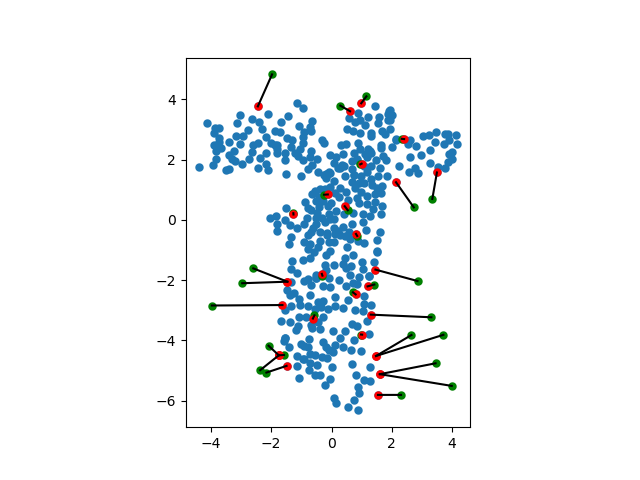
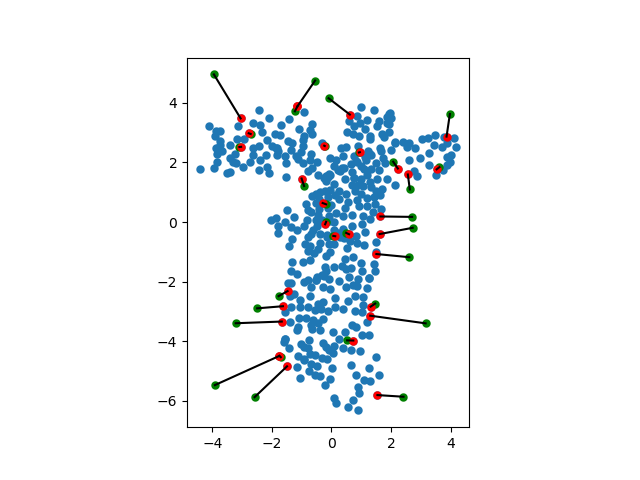
feat: Add VPTree nearest neighbor implementation
Add vantage point tree nn implementation and test it on ecobici dataset.

diff --git a/vptree.py b/vptree.py
@@ -1,0 +1,135 @@
+import math
+import numpy as np
+from typing import List
+
+def distance(point1: List[float], point2: List[float]) -> float:
+    return math.sqrt((point1[1] - point2[1])**2 + (point1[0] - point2[0])**2)
+
+# Adaptation from VP-Tree implementation, by Steve Hanov. (steve.hanov@gmail.com)
+
+# Node class
+class VpTreeNode:
+    def __init__(self, point):
+        self.vp = point
+        self.left = None
+        self.right = None
+        self.mu = 0
+
+    def __str__(self):
+        return f"(vp={self.vp}, mu={self.mu})"
+
+
+# VPTree Class
+class VpTree:
+    def __init__(self, datapoints):
+        self._datapoints = datapoints
+        self._root = self.__build(0, len(self._datapoints))
+
+    def __build(self, low_idx, up_idx):
+        # terminal case
+        if up_idx == low_idx:
+            return None
+
+        # terminal case with one node
+        if up_idx - low_idx == 1:
+            node = VpTreeNode(self._datapoints[low_idx])
+            return node
+
+        # if previous conditions are not met, then there are at least two data
+        root_i = np.random.randint(low_idx, up_idx) # choose rand index for root
+        # swap corresponding element with starting element
+        tmp = self._datapoints[root_i], self._datapoints[low_idx]
+        self._datapoints[low_idx], self._datapoints[root_i] = tmp
+
+        # compute all distances to subtree's root node
+        dists = [distance(p, self._datapoints[low_idx])
+                for p in self._datapoints[low_idx:up_idx]]
+        mid = len(dists) // 2 # distances' middle element
+        # move all elements lower to mid element to left and higher to the right
+        idx = np.argpartition(dists, mid)
+        zero = np.argwhere(idx == 0)[0][0] # track position of zero idx
+        # swap it to the leftmost position
+        idx[zero] = idx[0]
+        idx[0] = 0
+
+        # partially sort data based on their distance to low_idx element
+        tmp = [self._datapoints[low_idx + i] for i in idx]
+        self._datapoints[low_idx:up_idx] = tmp
+        
+        # create subtree root node
+        node = VpTreeNode(self._datapoints[low_idx])
+        node.mu = distance(self._datapoints[low_idx],
+                           self._datapoints[low_idx + mid])
+
+        # recursive call for left and right child nodes
+        node.left = self.__build(low_idx + 1, low_idx + mid + 1)
+        node.right = self.__build(low_idx + mid + 1, up_idx)
+
+        return node
+
+    def __nearest_neighbor(
+              self, 
+              query, 
+              node, 
+              tau: float = math.inf, 
+              nn: VpTreeNode = None) -> VpTreeNode:
+        """"""
+        if node != None:
+            d = distance(query, node.vp)
+            if nn == None: # special case at initialization
+                tau = d
+                nn = node
+                # explore inner region
+                nl, tl = self.__nearest_neighbor(query, node.left, 
+                                                 tau=tau, nn=nn)
+                if tl < tau:
+                    tau = tl 
+                    nn = nl
+                # explore outter region
+                nr, tr = self.__nearest_neighbor(query, node.right, 
+                                                 tau=tau, nn=nn)
+                if tr < tau:
+                    tau = tr
+                    nn = nr
+            else: # second iteration onward
+                tau = d
+                nn = node
+                if tau + node.mu < d: # prune inner tree
+                    nr, tr = self.__nearest_neighbor(query, node.right,
+                                                     tau=d, nn=nn)
+                    if tr < tau:
+                        tau = tr
+                        nn = nr
+                elif tau < node.mu and d < node.mu - tau: # prune outter tree
+                    nl, tl = self.__nearest_neighbor(query, node.left,
+                                                     tau=d, nn=nn)
+                    if tl < tau:
+                        tau = tl
+                        nn = nl
+                elif node.mu - tau < d and d < node.mu + tau: # check both trees
+                    # explore inner region
+                    nl, tl = self.__nearest_neighbor(query, node.left, 
+                                                     tau=d, nn=nn)
+                    if tl < tau:
+                        tau = tl 
+                        nn = nl
+                    # explore outter region
+                    nr, tr = self.__nearest_neighbor(query, node.right, 
+                                                     tau=tau, nn=nn)
+                    if tr < tau:
+                        tau = tr
+                        nn = nr
+        return nn, tau
+
+    def nearest_neighbor(self, query) -> VpTreeNode:
+        return self.__nearest_neighbor(query, self._root)
+
+    def print(self):
+        self.__print_subtree(self._root)
+
+    def __print_subtree(self, node):
+        if node.left != None:
+            self.__print_subtree(node.left)
+        print(node)
+        if node.right != None:
+            self.__print_subtree(node.right)

diff --git a/ecobici.py b/ecobici.py
@@ -6,6 +6,7 @@ import pandas as pd
 from typing import List, Tuple
 
 import tree as kd
+import vptree as vpt
 
 def latlon_to_global(coords: np.ndarray) -> Tuple[float]:
     """Converts latitude and longitude coordinates to local x, y positions
@@ -102,3 +103,24 @@ for query in zip(points[0], points[1]):
     plt.plot([nearest.x, query[0]], [nearest.y, query[1]], color='k')
 
 plt.savefig('out/nearest.png')
+
+# plot query points and their nearest neighbors using VpTree
+plt.figure()
+# create vp-tree using ecobike data
+locs = []
+for coord in locs_bike:
+    locs.append(coord)
+vptree = vpt.VpTree(locs)
+
+plt.scatter(locs_bike[:, 0], locs_bike[:, 1], linewidth=0.05)
+plt.gca().set_aspect('equal', adjustable='box')
+points = plot_random(n=30)
+# compute and plot nearest neighbor for all random points
+nearest_neighbors = []
+for query in zip(points[0], points[1]):
+    nearest, _ = vptree.nearest_neighbor(query)
+    # plot node and draw a line to the query point
+    plt.scatter([nearest.vp[0]], [nearest.vp[1]], color='red', linewidth=0.05)
+    plt.plot([nearest.vp[0], query[0]], [nearest.vp[1], query[1]], color='k')
+
+plt.savefig('out/nearest_vpt.png')
